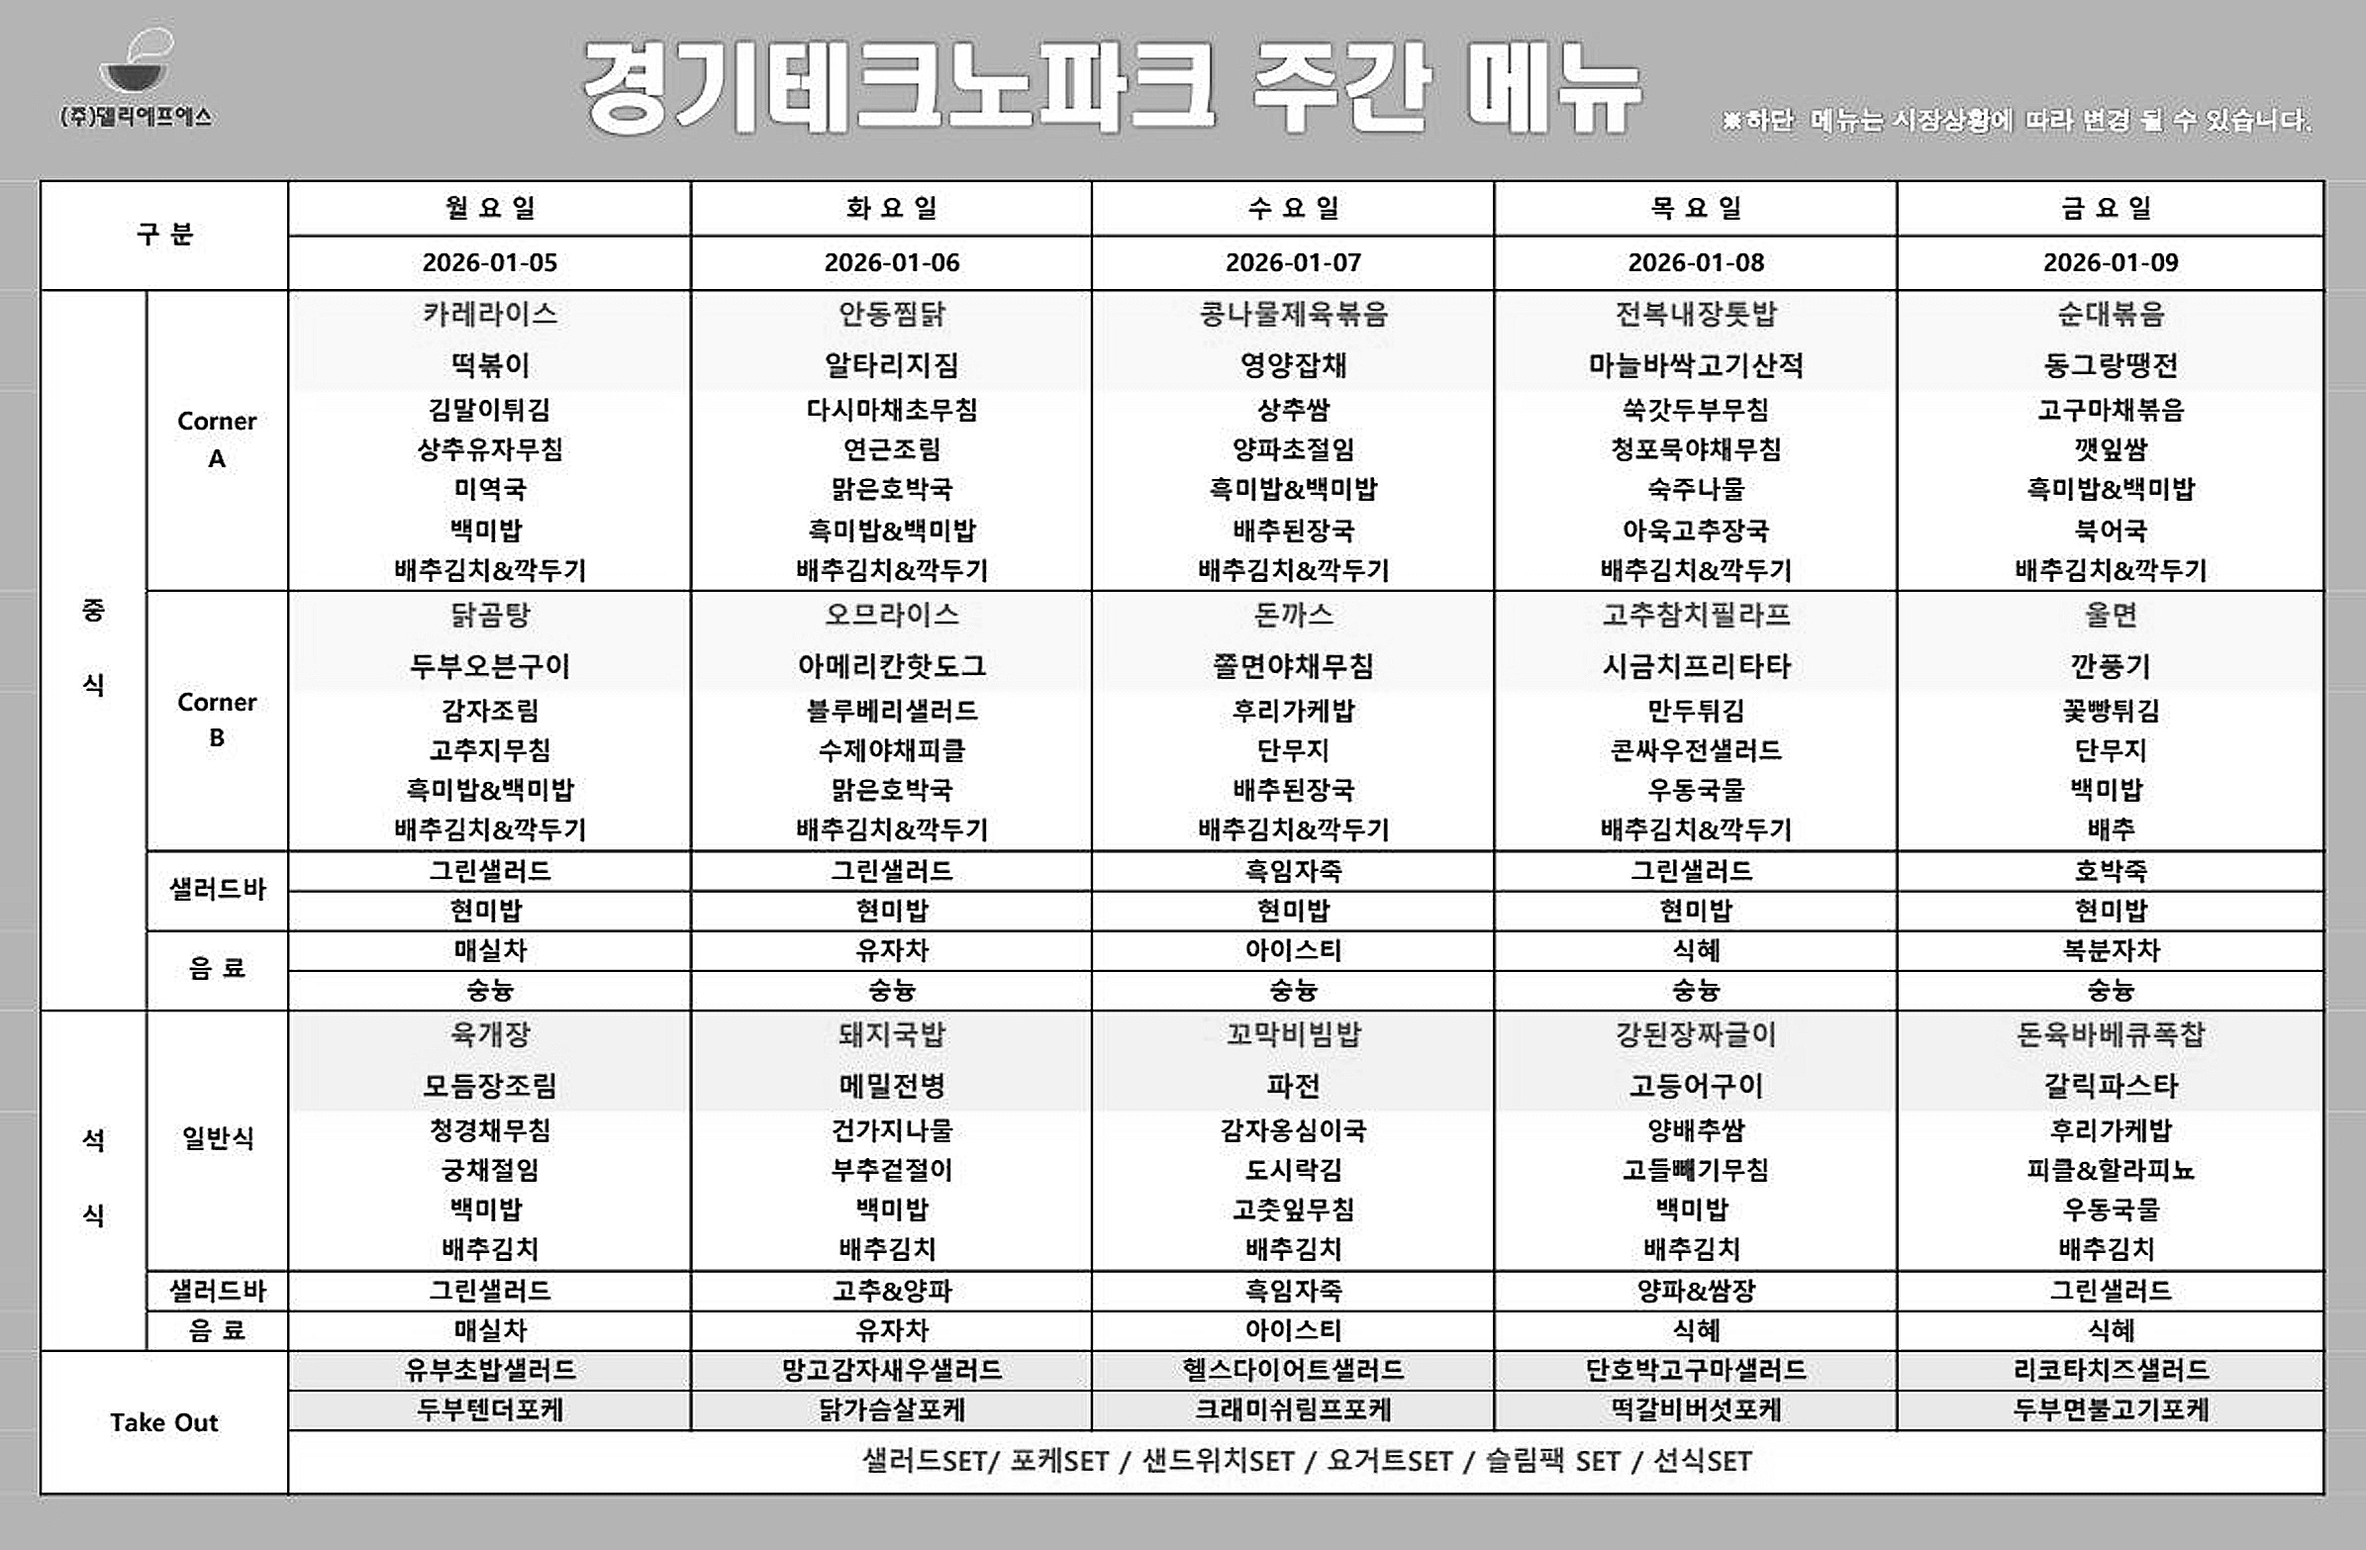
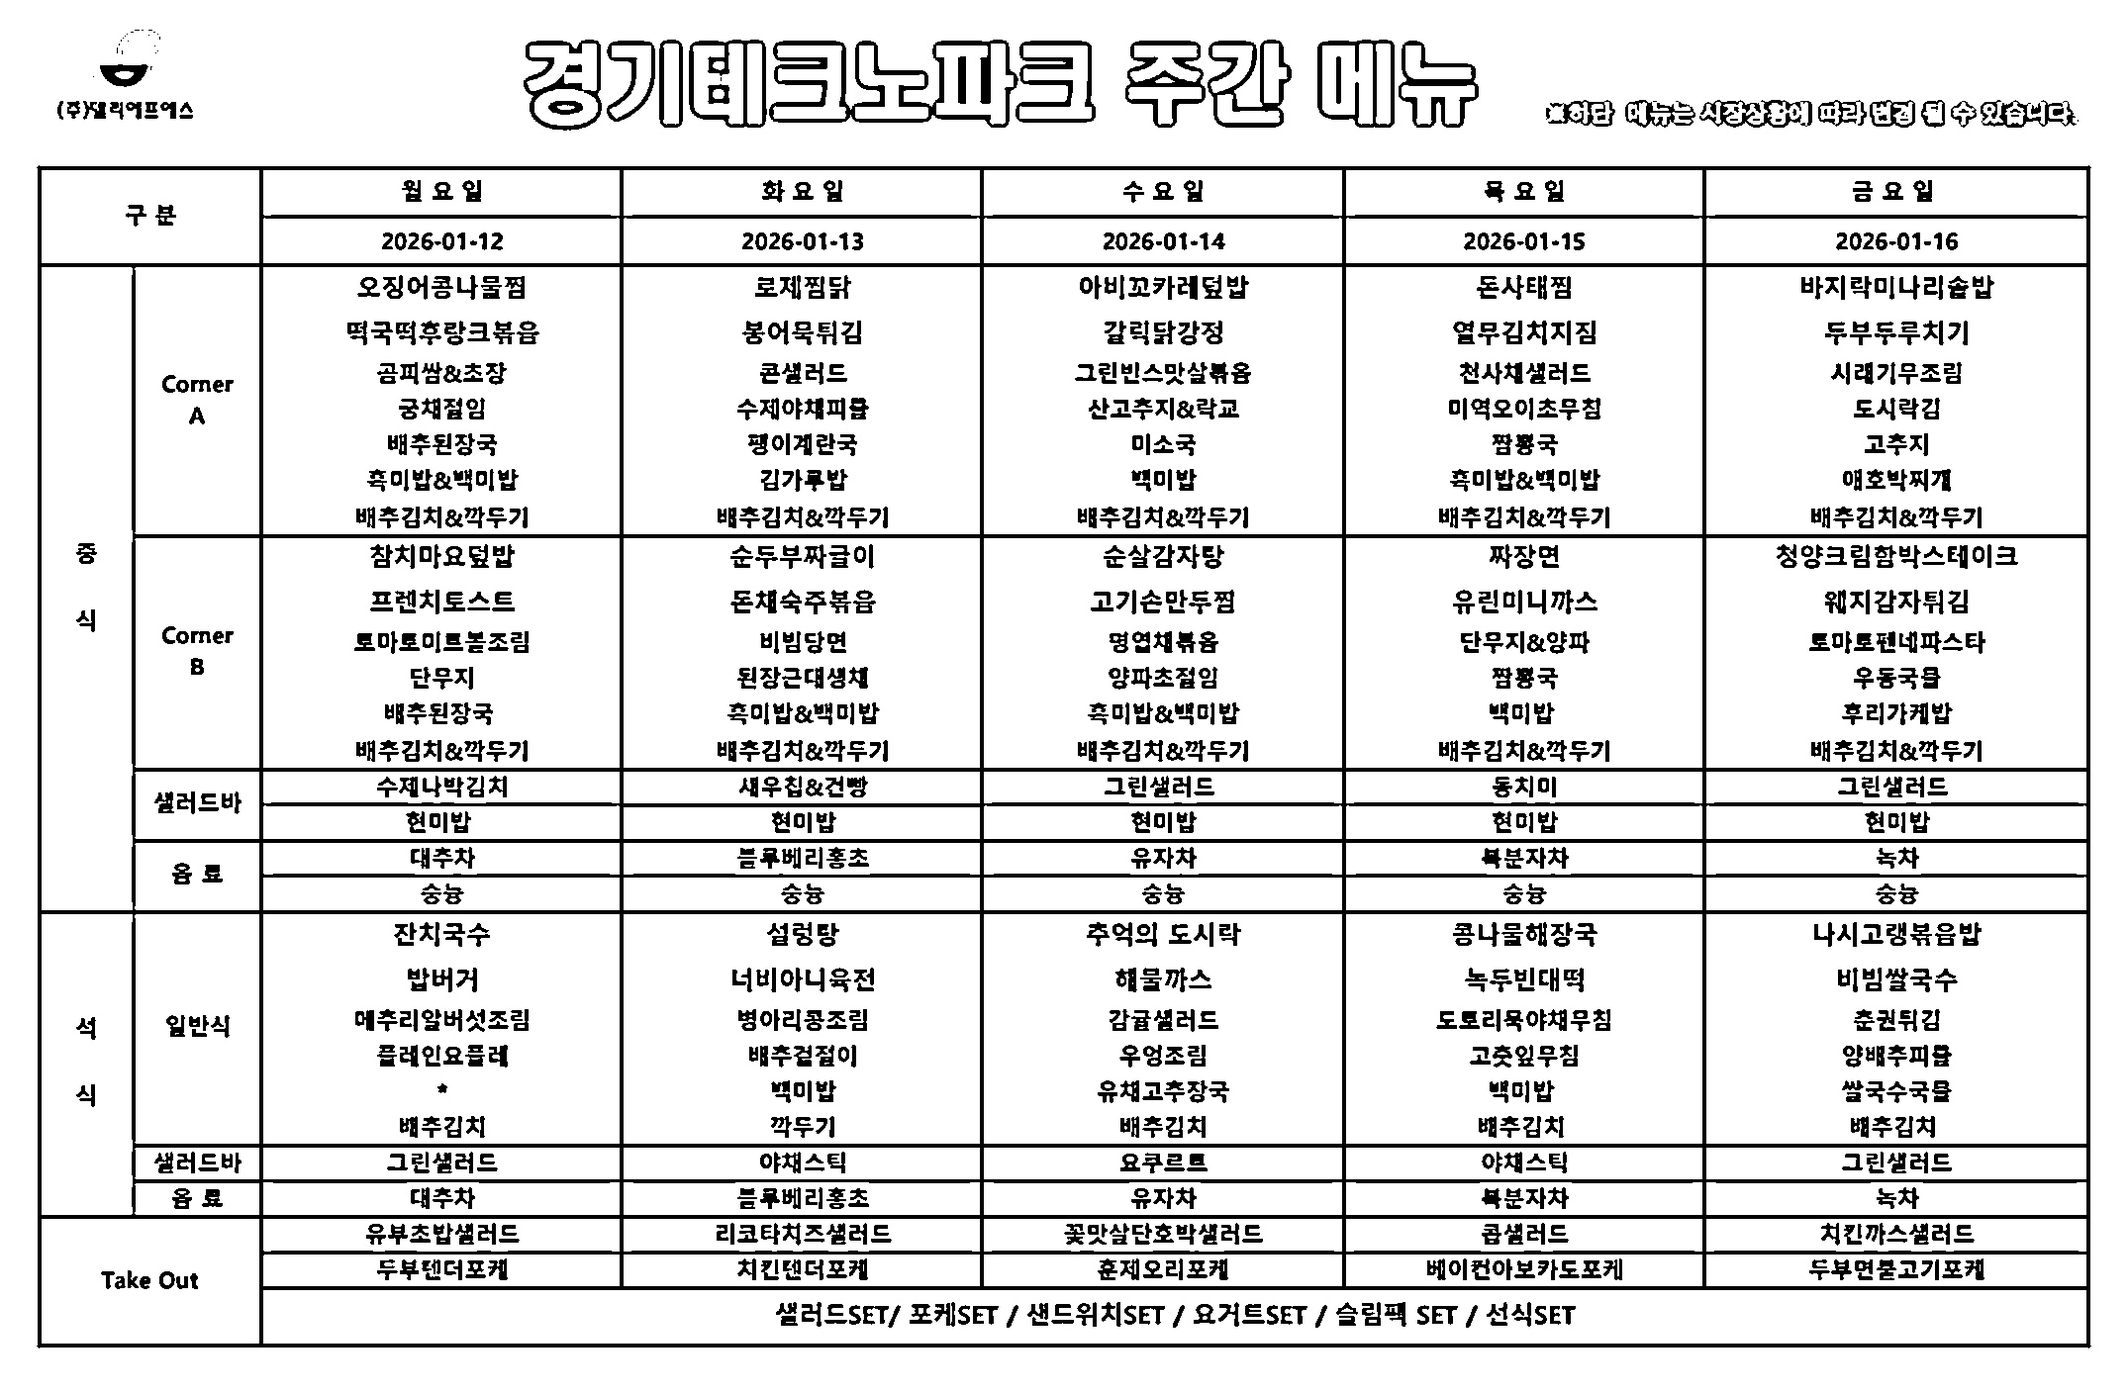
feat: improve OCR accuracy via image preprocessing

diff --git a/menu_scraper.py b/menu_scraper.py
@@ -148,14 +148,14 @@ def preprocess_image(image_path):
         
         # Simple thresholding/denoising can sometimes help, but sometimes hurt.
         # Let's stick with just upscaling and grayscale which is usually safer for EasyOCR.
-        # Optional: Sharpening
-        kernel = np.array([[0, -1, 0],
-                           [-1, 5,-1],
-                           [0, -1, 0]])
-        sharpened = cv2.filter2D(gray, -1, kernel)
+        # This helps separate text from background
+        # Tuned parameters: 11, 2 (Standard)
+        binary = cv2.adaptiveThreshold(
+            gray, 255, cv2.ADAPTIVE_THRESH_GAUSSIAN_C, cv2.THRESH_BINARY, 11, 2
+        )
         
         new_filename = os.path.join(OUTPUT_DIR, 'menu_processed.jpg')
-        cv2.imwrite(new_filename, sharpened)
+        cv2.imwrite(new_filename, binary)
         print(f"Processed image saved to {new_filename}")
         return new_filename
     except Exception as e:
@@ -225,6 +225,11 @@ def parse_menu_with_ocr_and_get_data(image_path):
     reader = easyocr.Reader(['ko', 'en']) 
     print("Running OCR...")
     ocr_result = reader.readtext(processed_path)
+    
+    print("Debug: First 10 generated text items:")
+    for i, (bbox, text, prob) in enumerate(ocr_result[:10]):
+        print(f"[{i}] {text} (prob: {prob:.2f})")
+    print("End of Debug info")
     
     today = datetime.date.today()
     today_match_str = today.strftime("%Y-%m-%d")
